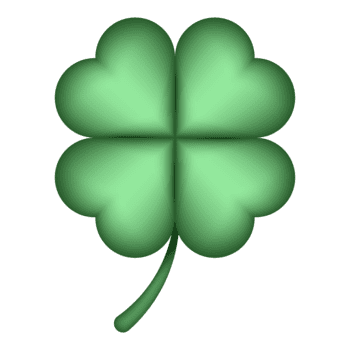
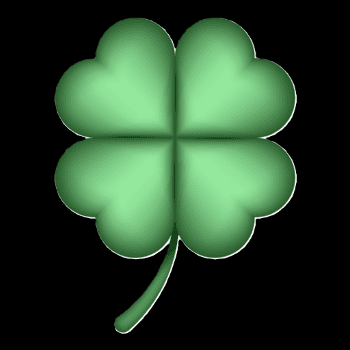
Mejora de estilos de ventanas

diff --git a/juegoseco/ui/inventario.java b/juegoseco/ui/inventario.java
@@ -15,6 +15,7 @@ public class inventario extends JDialog {
     public inventario(boolean linterna, boolean hacha, boolean maza, boolean llaves, ImageIcon img) {
         setTitle("Inventario");
         setModal(true);
+        setUndecorated(true);
         setSize(400, 250);
         setLocationRelativeTo(null);
         setResizable(false);
@@ -24,17 +25,12 @@ public class inventario extends JDialog {
         panelConFondo.setLayout(null);
         setContentPane(panelConFondo);
 
-        texto = new JLabel("Este es tu inventario actual");
-        texto.setBounds(130, 10, 400, 20);
-        texto.setForeground(Color.WHITE);
-        panelConFondo.add(texto);
-
         ImageIcon img2 = new ImageIcon("img/mochila.png");
         Image imagenEscalada = img2.getImage().getScaledInstance(24, 24, Image.SCALE_SMOOTH);
         img2 = new ImageIcon(imagenEscalada);
 
         volver = new JButton(img2);
-        volver.setBounds(184, 150, 24, 24);
+        volver.setBounds(189, 185, 24, 24);
         panelConFondo.add(volver);
 
         volver.addActionListener(e -> dispose());

diff --git a/juegoseco/ui/easteregg.java b/juegoseco/ui/easteregg.java
@@ -37,9 +37,11 @@ public class easteregg extends JFrame {
         setResizable(false);
         setIconImage(img.getImage());
 
+
         // PANEL DE FONDO
         PanelConFondo fondo = new PanelConFondo("img/easteregg.png");
         fondo.setLayout(null); // Para colocar el botón libremente
+        fondo.setBackground(Color.black);
         setContentPane(fondo);
     }
 }
